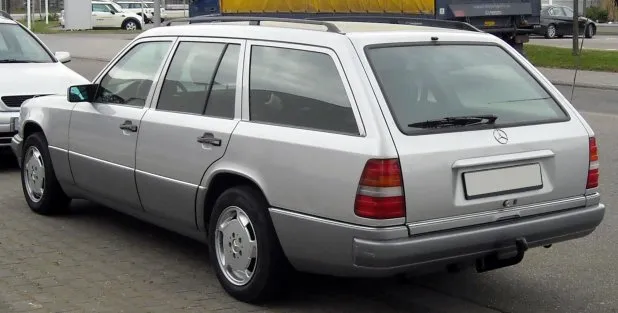
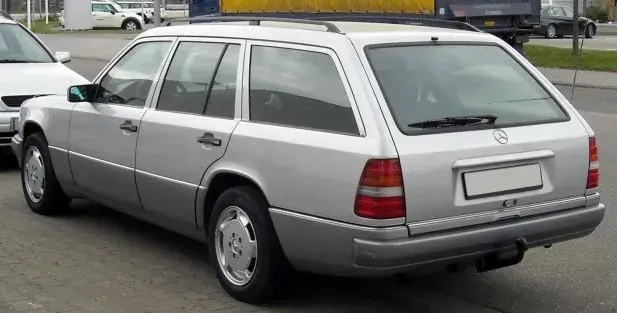
246

diff --git a/pic/ja_mb_img_e.html b/pic/ja_mb_img_e.html
@@ -630,7 +630,7 @@
 						<p class="i m1">(1)09/1989</p>
 						<p class="i m2">(2)1993</p><br>
 						<a href="full/e/s124_f2.jpg"><img loading="lazy" src="style/e/s124_f2.webp" alt="メルセデス,S124,Eクラス,フロント" width="588" height="313"></a>
-						<a href="full/e/s124_r2.jpg"><img loading="lazy" src="style/e/s124_r2.webp" alt="メルセデス,S124,Eクラス,リヤ" width="618" height="313"></a>
+						<a href="full/e/s124_r2.jpg"><img loading="lazy" src="style/e/s124_r2.webp" alt="メルセデス,S124,Eクラス,リヤ" width="617" height="313"></a>
 						<h5>Dimensions</h5>
 						<img loading="lazy" src="style/e/s124_a.webp" alt="メルセデス,S124,寸法" width="880" height="448">
 					</section>

diff --git a/pic/en_mb_img_e.html b/pic/en_mb_img_e.html
@@ -630,7 +630,7 @@
 						<p class="i m1">(1)09/1989</p>
 						<p class="i m2">(2)1993</p><br>
 						<a href="full/e/s124_f2.jpg"><img loading="lazy" src="style/e/s124_f2.webp" alt="Mercedes,S124,E-class,primary,Front view" width="588" height="313"></a>
-						<a href="full/e/s124_r2.jpg"><img loading="lazy" src="style/e/s124_r2.webp" alt="Mercedes,S124,E-class,primary,Rear view" width="618" height="313"></a>
+						<a href="full/e/s124_r2.jpg"><img loading="lazy" src="style/e/s124_r2.webp" alt="Mercedes,S124,E-class,primary,Rear view" width="617" height="313"></a>
 						<h5>Dimensions</h5>
 						<img loading="lazy" src="style/e/s124_a.webp" alt="Mercedes,S124,Dimensions" width="880" height="448">
 					</section>

diff --git a/pic/mb_img_e.html b/pic/mb_img_e.html
@@ -630,7 +630,7 @@
 						<p class="i m1">(1)09/1989</p>
 						<p class="i m2">(2)1993</p><br>
 						<a href="full/e/s124_f2.jpg"><img loading="lazy" src="style/e/s124_f2.webp" alt="Mercedes,S124,E-klasse,Frontansicht" width="588" height="313"></a>
-						<a href="full/e/s124_r2.jpg"><img loading="lazy" src="style/e/s124_r2.webp" alt="Mercedes,S124,E-klasse,Rückansicht" width="618" height="313"></a>
+						<a href="full/e/s124_r2.jpg"><img loading="lazy" src="style/e/s124_r2.webp" alt="Mercedes,S124,E-klasse,Rückansicht" width="617" height="313"></a>
 						<h5>Abmessungen</h5>
 						<img loading="lazy" src="style/e/s124_a.webp" alt="Mercedes,S124,Maße" width="880" height="448">
 					</section>
